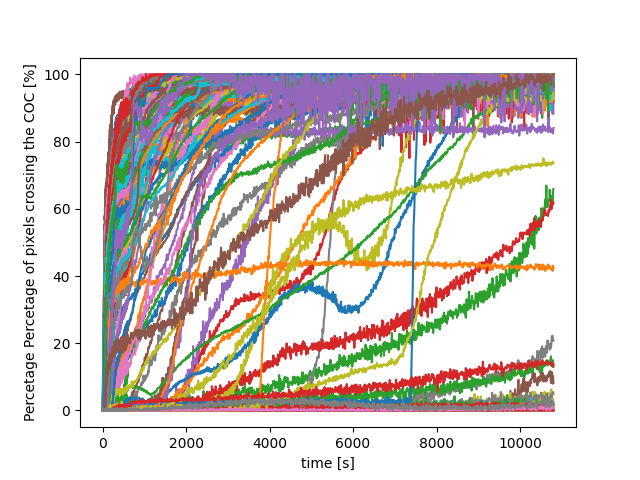
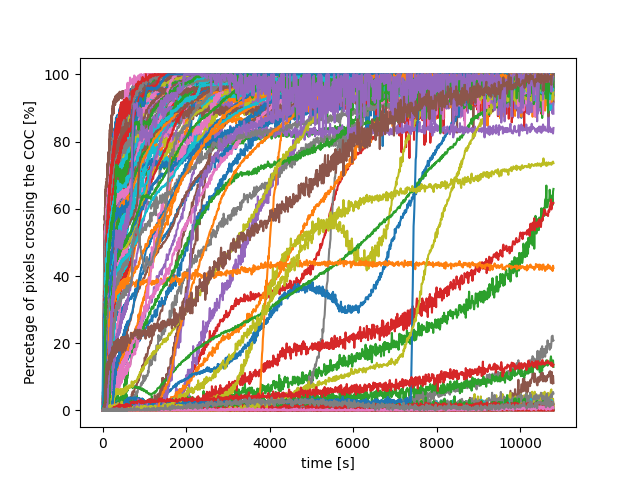
3

Changed region(s): [[0.0312, 0.125, 0.0625, 0.875]]

diff --git a/corrosiononsetcolumn.py b/corrosiononsetcolumn.py
@@ -26,6 +26,8 @@ for df in data_frames:
 
 sigcollst = []
 
+column = 30
+
 for i in range(len(arrays)):
     totalpix = arrays[i][0, 3:arrays[i].shape[1]].sum()
     for j in range(3,arrays[i].shape[1]):
@@ -44,6 +46,7 @@ for i in range(len(arrays)):
     totalpix = arrays[i][0, 3:arrays[i].shape[1]].sum()
     for j in range(arrays[i].shape[0]):
         corpixels = arrays[i][j, 3:sigcollst[i]].sum()
+        #corpixels = arrays[i][j, 3:column].sum()
         corpercent = corpixels / totalpix * 100
         matrixpercentabs[i,j] = corpercent
         if j == 0:
@@ -79,7 +82,8 @@ for i in range(len(arrays)):
 for i in range(len(arrays)):
     plt.plot(timesteps_unin, matrixpercentabs[i])
     plt.xlabel('time [s]')
-    plt.ylabel('Percetage Percetage of pixels crossing the COC [%]')
+    plt.ylabel('Percetage of pixels crossing the COC [%]')
+    
 plt.savefig('unin_abs_corr_to_time_10800/plot_all.png')
 
 
